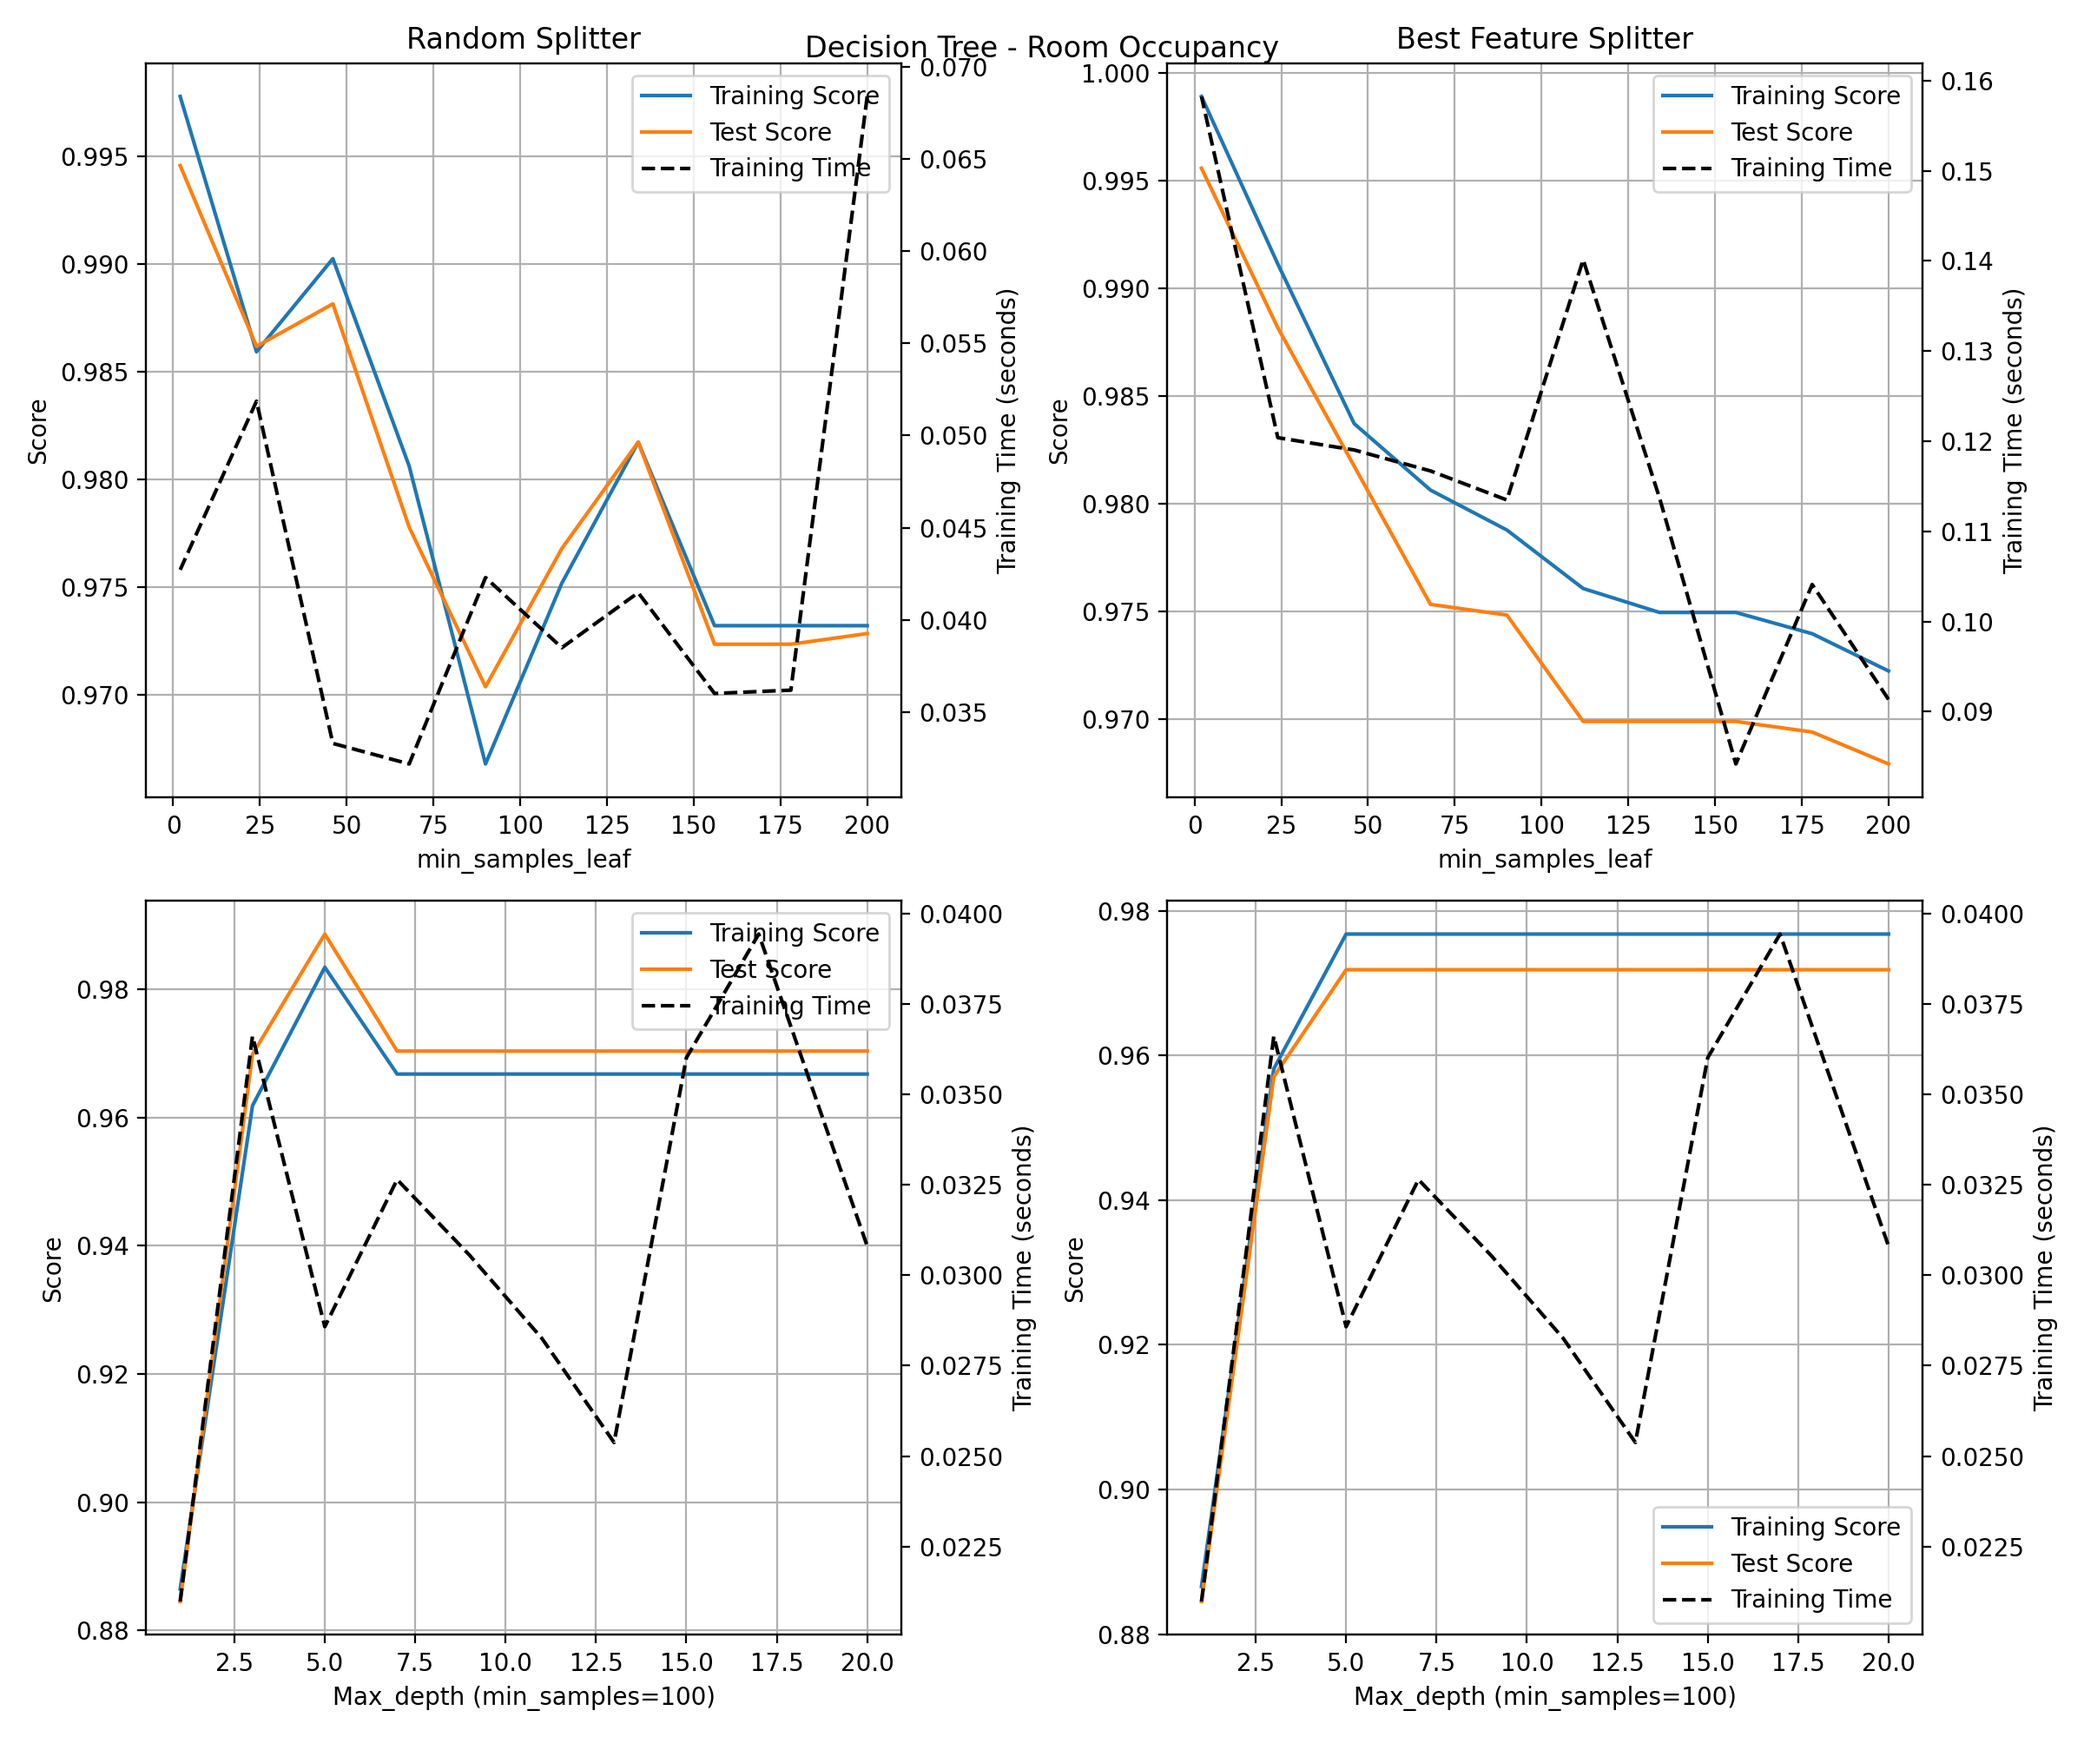
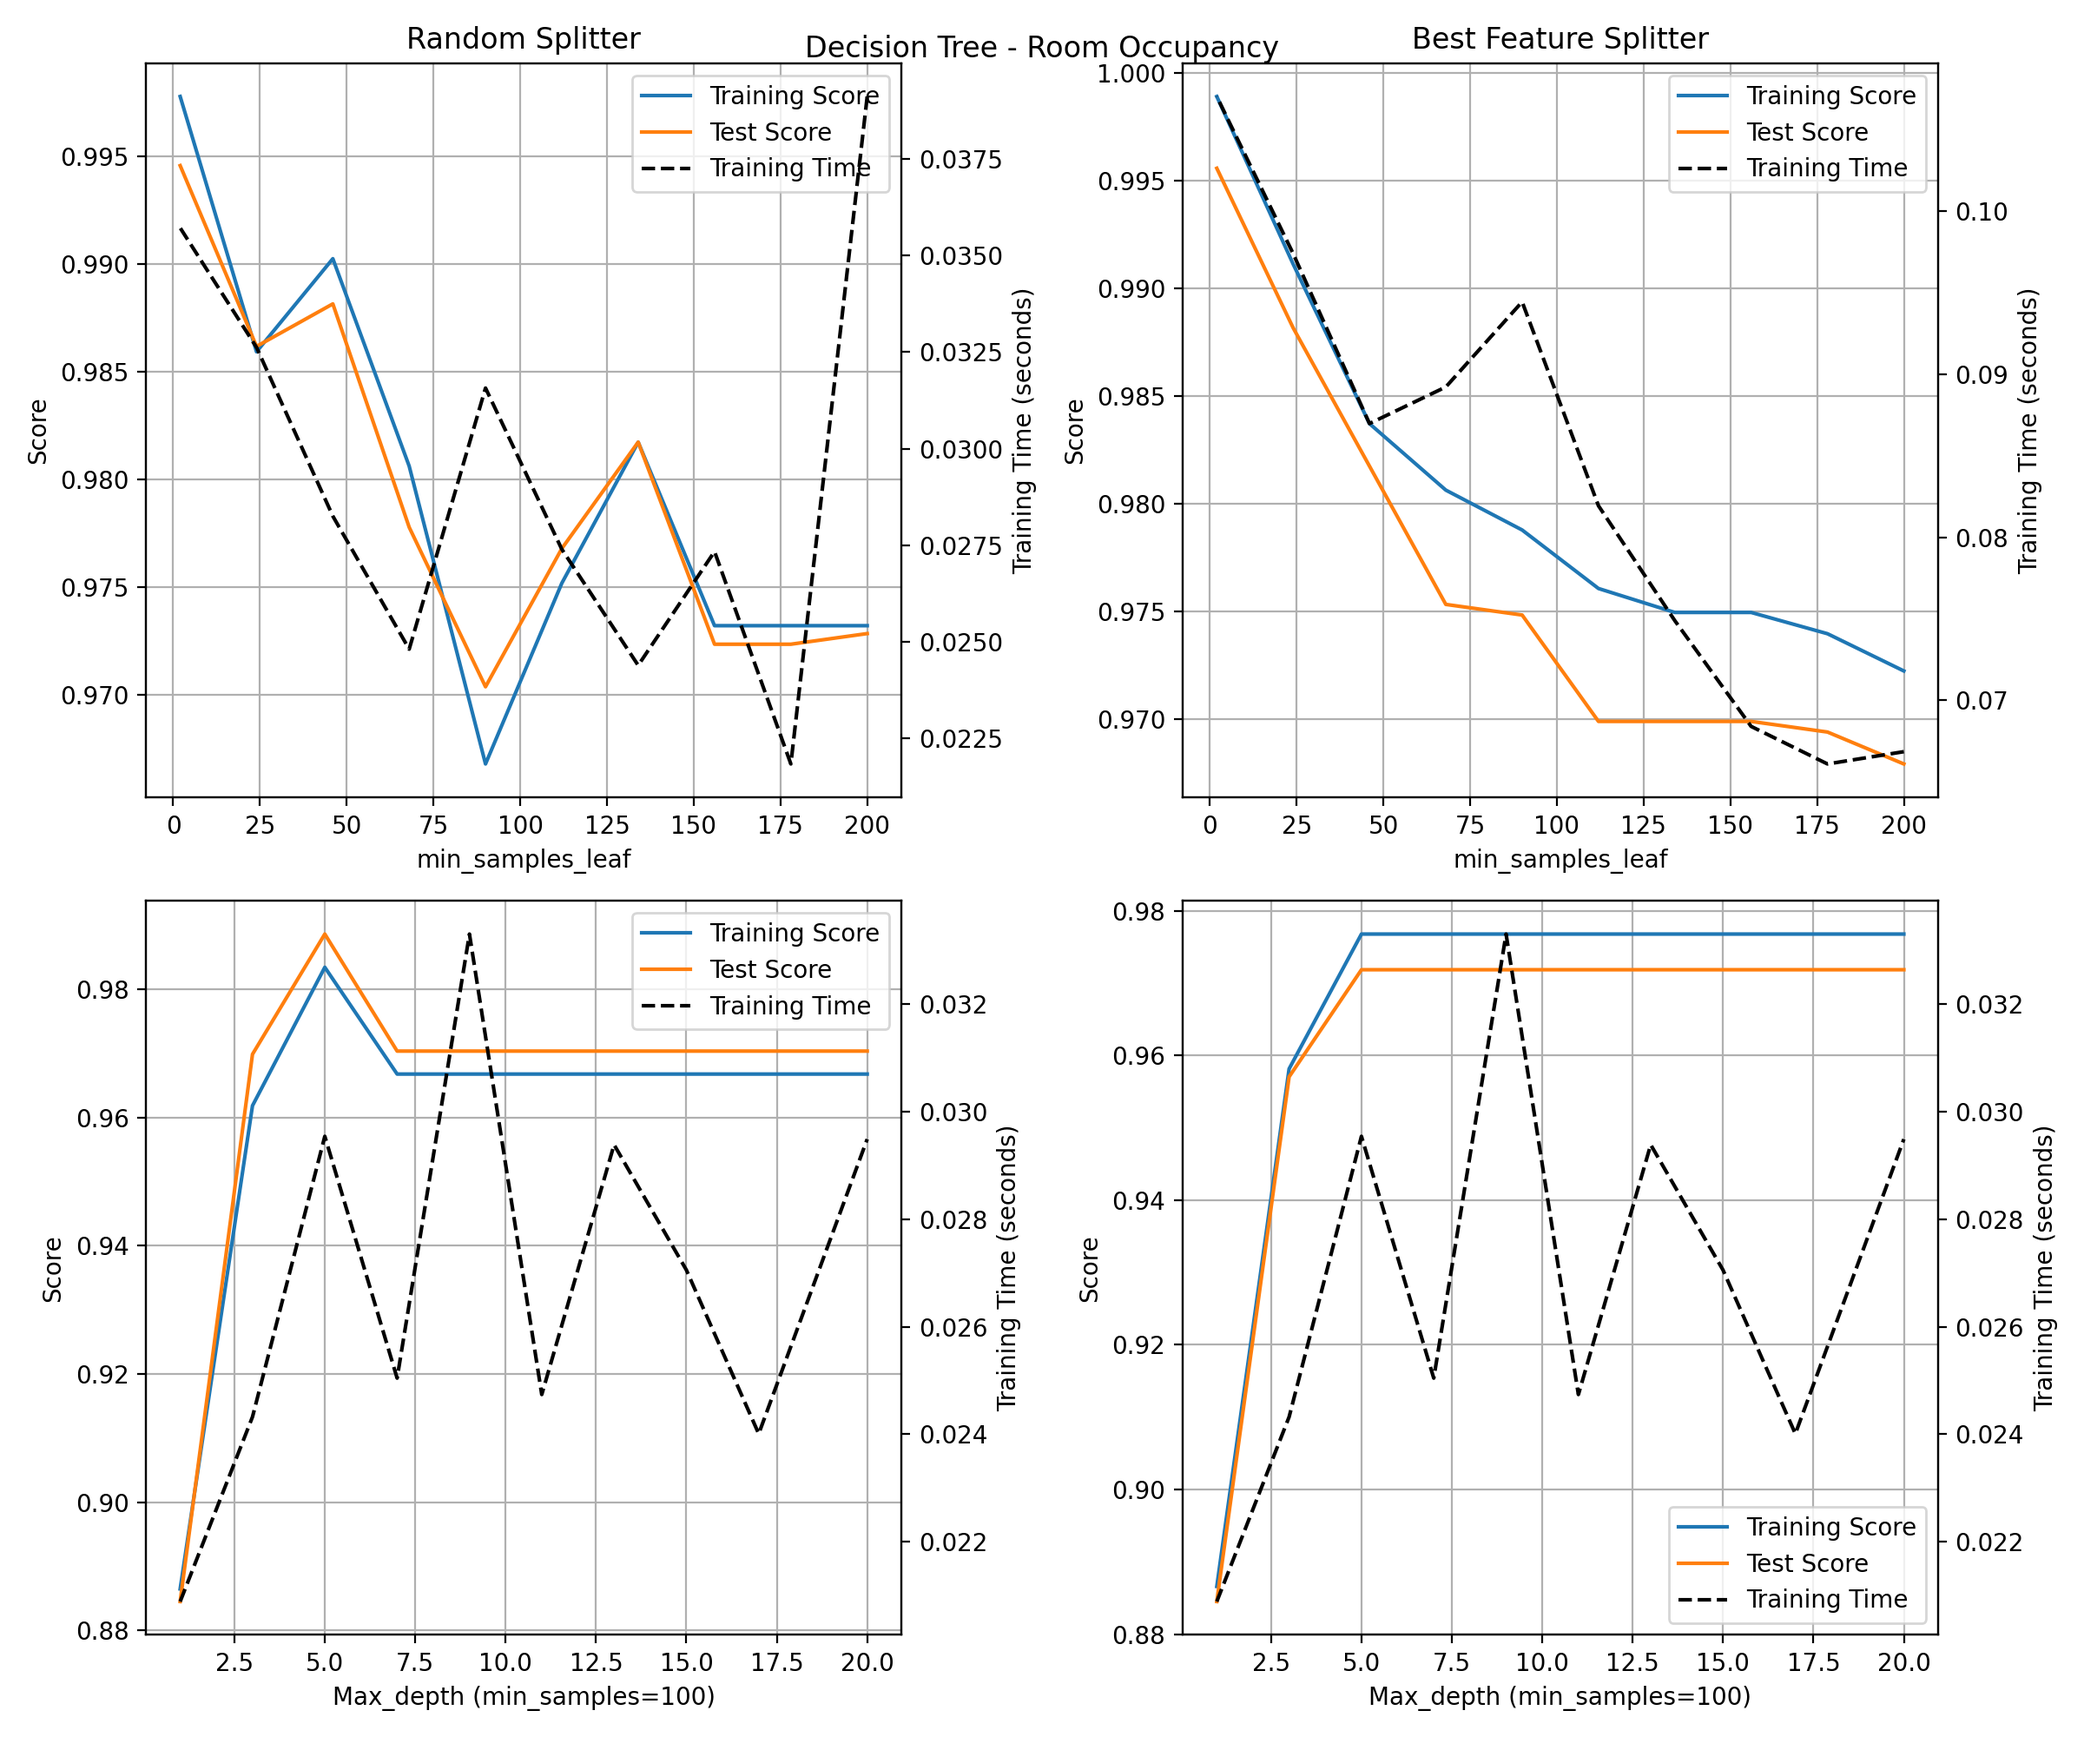
Small fixes

diff --git a/assignment_1.py b/assignment_1.py
@@ -9,14 +9,16 @@
 """
 # Simple Decision Tree Classifier
 from sklearn.tree import DecisionTreeClassifier
-from sklearn import preprocessing, utils
-import sklearn.model_selection as ms
+#from sklearn import preprocessing, utils
+from  sklearn import model_selection
 # Decision Tree with boosting
 from sklearn.ensemble import GradientBoostingClassifier
+# Neural Network MLP
+from sklearn.neural_network import MLPClassifier
 
 import os
 import pandas as pd
-import random
+#simport random
 import numpy as np
 import matplotlib.pyplot as plt
 from time import time
@@ -40,6 +42,9 @@ datasets = {
     'Credit Default':ds1,
     'Room Occupancy':ds2,
     }
+
+#Train Test Split for all experiments 
+test_size = 0.1 
 
 ###############################################################################
 # Helper Functions
@@ -78,8 +83,7 @@ for DataSetName, ds in datasets.items():
     Ydata = ds.iloc[:,-1]
     
     # Split data (set random seed)
-    test_size = 0.2
-    Xtrain, Xtest, Ytrain, Ytest = ms.train_test_split(Xdata,
+    Xtrain, Xtest, Ytrain, Ytest = model_selection.train_test_split(Xdata,
                                                        Ydata,
                                                        test_size=test_size,
                                                        random_state=seed)
@@ -279,8 +283,7 @@ for DataSetName, ds in datasets.items():
     Ydata = ds.iloc[:,-1]
     
     # Split data (set random seed)
-    test_size = 0.2
-    Xtrain, Xtest, Ytrain, Ytest = ms.train_test_split(Xdata,
+    Xtrain, Xtest, Ytrain, Ytest = model_selection.train_test_split(Xdata,
                                                        Ydata,
                                                        test_size=test_size,
                                                        random_state=seed)
@@ -367,14 +370,12 @@ for DataSetName, ds in datasets.items():
         
         # Fit the dt to training data
         t = timefit(model,(Xtrain,Ytrain))
-        dt_boost_time_md.append(t)
+        dt_boost_time_ms.append(t)
         
         # Score on test data
-        dtscore = model.score(Xtest,Ytest)
-        
         # Add to scores
-        dt_boost_score_out_md.append(dtscore)
-        dt_boost_score_in_md.append(model.score(Xtrain,Ytrain))
+        dt_boost_score_out_ms.append(model.score(Xtest,Ytest))
+        dt_boost_score_in_ms.append(model.score(Xtrain,Ytrain))
     
     #######################
     # Create plot
@@ -416,7 +417,7 @@ for DataSetName, ds in datasets.items():
     ax10.set_ylabel('Training Time (seconds)')
     ls = l1+ l2 + l3
     lb = [l.get_label() for l in ls]
-    ax[1][0].set_xlabel(f'Max_Depth')
+    ax[1][0].set_xlabel('Max_Depth')
     ax[1][0].set_ylabel('Score')
     ax[1][0].grid()
     ax[1][0].legend(ls,lb,loc=0)
@@ -429,7 +430,7 @@ for DataSetName, ds in datasets.items():
     ax10.set_ylabel('Training Time (seconds)')
     ls = l1+ l2 + l3
     lb = [l.get_label() for l in ls]
-    ax[1][1].set_xlabel(f'Min_samples_leaf')
+    ax[1][1].set_xlabel('Min_samples_leaf')
     ax[1][1].set_ylabel('Score')
     ax[1][1].grid()
     ax[1][1].legend(ls,lb,loc=0)
@@ -440,6 +441,68 @@ for DataSetName, ds in datasets.items():
     plt.show() # Save fig
     
     # 
+
+
+###############################################################################
+# Neural Network - Using Multi-Layer Perceptron MLP Classifier
+###############################################################################
+
+
+for DataSetName, ds in datasets.items():
+    
+    ## Get X, Y data for test and train
+    Xdata = ds.iloc[:,1:-1]
+    Ydata = ds.iloc[:,-1]
+    
+    # Split data (set random seed)
+    Xtrain, Xtest, Ytrain, Ytest = model_selection.train_test_split(Xdata,
+                                                       Ydata,
+                                                       test_size=test_size,
+                                                       random_state=seed)
+    
+    ##Vary Learning_rate using learning_rate_init
+    lr_rates = np.linspace(0.001,0.09,20)
+    
+    mlp_out_score_lr = []
+    mlp_in_score_lr = []
+    mlp_time_lr = []
+    # Use constant rate
+    for lr_ in lr_rates:
+        model = MLPClassifier(learning_rate_init=lr_)
+    
+        t = timefit(model,(Xtrain,Ytrain))
+        
+        mlp_time_lr.append(t)
+        
+        mlp_out_score_lr.append(model.score(Xtest,Ytest))
+        mlp_in_score_lr.append(model.score(Xtrain,Ytrain))
+        
+        print(f'MLP: {model}-> Fit Time = {t} seconds')
+
+
+
+
+    #######################
+    # Create plot
+    #######################
+    fig, ax =  plt.subplots(2,2,figsize=(12,10),dpi=200)
+
+
+
+    fig.tight_layout()
+    plt.suptitle(f'Multi-Layer Perceptron Classifier - {DataSetName}\n')
+    plt.savefig(f'Multi-Layer_Perceptron_Classifier_{DataSetName}_Figure.png')
+    plt.show() # Save fig
+
+
+
+
+
+
+
+
+
+
 
 
 
